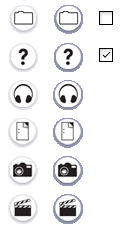
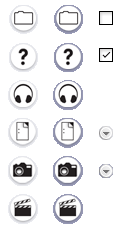
Improved the web browser experience.

Changed region(s): [[0.8182, 0.7061, 0.9421, 0.7982], [0.8182, 0.5526, 0.9421, 0.614]]

diff --git a/wwwroot/media/base.css b/wwwroot/media/base.css
@@ -108,6 +108,7 @@ body {
 #footer a {
 	color:#999;
 }
+#download {	display:none;}
 
 
 
@@ -152,6 +153,17 @@ body {
     color:#eee;
 }
 
+.selections {
+	background:#a19fa8;
+	padding:4px 9px;
+	color:#555;
+	text-indent:31px;
+}
+.selections a {
+	color:#444;
+	padding:0 3px;
+}
+
 
 
 
@@ -177,24 +189,21 @@ body {
 
 
 
-#files a {
+.scroll a {
 	width:100%;
 	height:37px;
 	border-bottom:1px #a0a1ac dotted;
 	display:block;
-	cursor:default;
+	cursor:pointer;
 	outline:none;
 }
-#files a:hover .name {
-	text-decoration:underline;
-}
 
-#files a.selected {
+.scroll a.selected {
 	background-color:#999bb7; 
-	border-bottom:1px #fff dotted;
+	border-color:#fff;
 }
 
-#files span {
+.scroll span {
 	display:inline;
 	float:left;
 	height:37px;
@@ -211,41 +220,50 @@ span.checkbox_actions a {
 	display:block;
 	float:left;
 }
-.checkbox_actions .select-all { 
-	background-position:0 -334px;
-}
+.checkbox_actions .select-all { background-position:0 -334px;}
 
-.checkbox_actions .select-none { 
-	background-position:-24px -334px;
-}
+.checkbox_actions .select-none { background-position:-24px -334px; }
 
 
 span.mark { width:31px; }
-#files span.mark {
+.scroll span.mark {
 	background:transparent url(/media/gfx/icons.png) no-repeat;
 	background-position:-90px 0;
 }
-#files .selected .mark { background-position:-90px -37px; }
+.scroll .selected .mark { background-position:-90px -37px; }
 span.icon { width:45px; }
 span.name { width:374px; overflow:hidden; }
 span.date { width:181px; }
-span.size { width:121px; }
+span.size { width:110px; }
+span.copy { 
+	width:27px;
+	background:transparent url(/media/gfx/icons.png?v=101) no-repeat -95px -115px;
+}
+span.copy a {
+	background:#333;
+	display:block;
+	width:27px;
+}
 
 
 
 
-.Directory, .Unknown, .Audio, .Document, .Image, .Video { background:transparent url(/media/gfx/icons.png) no-repeat; }
+
+.Directory .icon, .Unknown .icon, .Audio .icon, .Document .icon, .Image .icon, .Video .icon { background:transparent url(/media/gfx/icons.png) no-repeat; }
 .selected .Directory { background-position:-45px 0; }
-.Unknown { background-position:0 -38px; }
+.Unknown .icon { background-position:0 -38px; }
 .selected .Unknown { background-position:-45px -38px; }
-.Audio { background-position:0 -76px; }
+.Audio .icon { background-position:0 -76px; }
 .selected .Audio { background-position:-45px -76px; }
-.Document {  background-position:0 -114px;  }
+.Document .icon {  background-position:0 -114px;  }
 .selected .Document { background-position:-45px -114px; }
-.Image {  background-position:0 -152px;  }
+.Image .icon {  background-position:0 -152px;  }
 .selected .Image { background-position:-45px -152px;  }
-.Video {  background-position:0 -190px;  }
+.Video .icon {  background-position:0 -190px;  }
 .selected .Video { background-position:-45px -190px;  }
+
+.selected .copy {background-position:-95px -153px; }
+.Directory .copy { background-image:none; }
 
 
 

diff --git a/wwwroot/media/js/jquery-airship.js b/wwwroot/media/js/jquery-airship.js
@@ -107,20 +107,30 @@
     $.fn.airshipUI = function() {
 	
 		// select all
-		$('a[href=#select-all]').mouseup(function() {
-			$('#files .overflow a').addClass('selected')
-			return false;
-		}).click(function() {
+		$('a[href=#select-all]').click(function() {
+			$('#files .overflow a').addClass('selected');
 			return false;
 		});
-		
-		$('a[href=#select-none]').mouseup(function() {
-			$('#files .overflow a').removeClass('selected')
-			return false;
-		}).click(function() {
+		$('a[href=#select-none]').click(function() {
+			$('#files .overflow a').removeClass('selected');
 			return false;
 		});
-		
+		$('a[href=#select-audio]').click(function() {
+			$('#files .overflow a.Audio').addClass('selected');
+			return false;
+		});
+		$('a[href=#select-documents]').click(function() {
+			$('#files .overflow a.Document').addClass('selected');
+			return false;
+		});
+		$('a[href=#select-images]').click(function() {
+			$('#files .overflow a.Image').addClass('selected');
+			return false;
+		});
+		$('a[href=#select-videos]').click(function() {
+			$('#files .overflow a.Video').addClass('selected');
+			return false;
+		});
         
         //create folder
         $('a[href=#new-folder]').mouseup(function() {
@@ -325,7 +335,7 @@
     function createItemRow(kind, name, date, size, mode)
     {
 		var a = $('<a />')
-			.addClass(mode)
+			.addClass(mode).addClass(kind)
 			.attr('href', kind == 'Directory' ? '#' + currentRelativePath + '/' + name : currentRelativePath + '/' + name);
 		
 		$('<span class="mark" />').appendTo(a);
@@ -333,15 +343,9 @@
 		$('<span class="name" />').appendTo(a).html(name);
 		$('<span class="date" />').appendTo(a).html(date);
 		$('<span class="size" />').appendTo(a).html(size);
+		$('<span class="copy" />').appendTo(a);
 		
-		a.mousedown(function() {
-//			$(this).addClass('selected');
-		})
-		.mouseup(function() {
-			
-//			$(this).removeClass('selected');
-		})
-		.find('.mark').click(function(e) {
+		a.find('.mark').click(function(e) {
 
 			var row = $(this).parent();
 			if (row.hasClass('selected')) {
@@ -349,9 +353,15 @@
 			} else {
 				row.addClass('selected');
 			}
-			
 			return false;
 		});
+		
+		a.find('.copy').click(function(e) {
+			
+			$('#download').attr('src', '/__/download/?filename=' + $(this).parent().attr('href'));
+			return false;
+		});
+		
         
         return a;
     };

diff --git a/wwwroot/index.html b/wwwroot/index.html
@@ -4,10 +4,10 @@
 	<head>
 		<meta http-equiv="Content-type" content="text/html; charset=utf-8">
 		<title>Airship</title>
-		<link rel="stylesheet" href="/media/base.css" type="text/css" media="screen" title="" charset="utf-8">
+		<link rel="stylesheet" href="/media/base.css?v=101" type="text/css" media="screen" title="" charset="utf-8">
 
 		<script src="/media/js/jquery-1.3.2.min.js" type="text/javascript" charset="utf-8"></script>
-		<script src="/media/js/jquery-airship.js" type="text/javascript" charset="utf-8"></script>
+		<script src="/media/js/jquery-airship.js?v=101" type="text/javascript" charset="utf-8"></script>
 		<script src="/media/js/jquery.address-1.0.min.js" type="text/javascript" charset="utf-8"></script>
 
 		<script type="text/javascript" charset="utf-8">
@@ -48,10 +48,7 @@
 			<div id="finder">
                 <div class="toolbar">
                     <div>
-                        <span class="checkbox_actions">
-							<a href="#select-all" class="select-all" title="Select All"></a>
-							<a href="#select-none" class="select-none" title="Select None"></a>
-						</span>
+						<span class="mark"></span>
                         <span class="name">Name</span>
                         <span class="date">Date</span>
                         <span class="size">Size</span>
@@ -59,6 +56,16 @@
                 </div>
                 
                 <div id="files">
+					<div class="selections">
+						Select:
+						<a href="#select-all">All,</a>
+						<a href="#select-none">None</a>
+						<a href="#select-audio">Audio,</a>
+						<a href="#select-documents">Documents,</a>
+						<a href="#select-images">Images,</a>
+						<a href="#select-videos">Videos</a>
+					</div>
+	
                     <div class="scroll">
                         <div class="overflow">
                         </div>
@@ -72,6 +79,10 @@
 			
 			<div id="footer">
 			</div>
+			
+			<iframe src="about:blank" width="0" height="0" id="download">
+			</iframe>
+			
 
 		</div>
 	</body>

diff --git a/HTTPResponse.m b/HTTPResponse.m
@@ -118,3 +118,78 @@
 }
 
 @end
+
+
+////////////////////////////////////////////////////////////////////////////////////////////////////////////////////////
+#pragma mark -
+////////////////////////////////////////////////////////////////////////////////////////////////////////////////////////
+
+
+@implementation HTTPForceDownloadFileResponse
+
+- (id)initWithFilePath:(NSString *)filePathParam
+{
+	if((self = [super init]))
+	{
+		filePath = [filePathParam copy];
+		fileHandle = [[NSFileHandle fileHandleForReadingAtPath:filePath] retain];
+		
+		if(fileHandle == nil)
+		{
+			[self release];
+			return nil;
+		}
+		
+		NSDictionary *fileAttributes = [[NSFileManager defaultManager] fileAttributesAtPath:filePath traverseLink:NO];
+		NSNumber *fileSize = [fileAttributes objectForKey:NSFileSize];
+		fileLength = (UInt64)[fileSize unsignedLongLongValue];
+	}
+	return self;
+}
+
+- (void)dealloc
+{
+	[filePath release];
+	[fileHandle closeFile];
+	[fileHandle release];
+	[super dealloc];
+}
+
+- (UInt64)contentLength
+{
+	return fileLength;
+}
+
+- (UInt64)offset
+{
+	return (UInt64)[fileHandle offsetInFile];
+}
+
+- (void)setOffset:(UInt64)offset
+{
+	[fileHandle seekToFileOffset:offset];
+}
+
+- (NSData *)readDataOfLength:(unsigned int)length
+{
+	return [fileHandle readDataOfLength:length];
+}
+
+- (BOOL)isDone
+{
+	return ([fileHandle offsetInFile] == fileLength);
+}
+
+- (NSString *)filePath
+{
+	return filePath;
+}
+
+- (NSDictionary *)httpHeaders;
+{
+	return [NSDictionary dictionaryWithObjects:[NSArray arrayWithObjects:[NSString stringWithFormat:@"attachment; filename=\"%@\"", [[filePath lastPathComponent] stringByReplacingOccurrencesOfString:@" " withString:@" "]], @"application/force-download", nil] 
+																		 forKeys:[NSArray arrayWithObjects:@"Content-Disposition", @"Content-Type", nil]];
+
+}
+
+@end

diff --git a/Classes/StorageHTTPConnection.m b/Classes/StorageHTTPConnection.m
@@ -80,8 +80,14 @@
 		} else	if ([URLpath isEqualToString:@"/"]) {
 		
 			URLpath = @"index.html";
+		} else if ([URLpath isEqualToString:@"/__/download"]) {
+			NSArray *keyValuePair = [URL.query componentsSeparatedByString:@"="];
+			NSString *value = [[[keyValuePair objectAtIndex:1] stringByReplacingPercentEscapesUsingEncoding:NSUTF8StringEncoding] stringByReplacingOccurrencesOfString:@"+" withString:@" "];
+			NSString *filename = [server.documentRoot.path stringByAppendingPathComponent:value];
+			if ([[NSFileManager defaultManager] fileExistsAtPath:filename]) {
+				return [[[HTTPForceDownloadFileResponse alloc] initWithFilePath:filename] autorelease];
+			}
 		}
-		
 		
 		return [[[HTTPFileResponse alloc] initWithFilePath:[[server.documentRoot.path stringByAppendingPathComponent:@"wwwroot"] stringByAppendingPathComponent:URLpath]] autorelease];
 	
@@ -139,6 +145,8 @@
 			[[NSFileManager defaultManager] moveItemAtPath:[[multipartParser.parts valueForKey:@"Filedata"] valueForKey:@"tmpFilePath"] toPath:[[server.documentRoot.path stringByAppendingPathComponent:relativePath] stringByAppendingPathComponent:filename] error:&error];
 			
 			
+			
+			
 			// Create file.
 			File *file = [[File alloc] initWithName:filename atPath:[server.documentRoot.path stringByAppendingPathComponent:relativePath]]; 
 			// Post notification.
@@ -151,6 +159,8 @@
 			requestIsMultipart = NO;
 			
 			return [[[HTTPDataResponse alloc] initWithData:[@"1" dataUsingEncoding:NSUTF8StringEncoding]] autorelease];
+			
+			
 		}
 	}
 	

diff --git a/HTTPResponse.h b/HTTPResponse.h
@@ -77,6 +77,24 @@
 
 @end
 
+
+////////////////////////////////////////////////////////////////////////////////////////////////////////////////////////
+#pragma mark -
+////////////////////////////////////////////////////////////////////////////////////////////////////////////////////////
+
+@interface HTTPForceDownloadFileResponse : NSObject <HTTPResponse>
+{
+	NSString *filePath;
+	NSFileHandle *fileHandle;
+	
+	UInt64 fileLength;
+}
+
+- (id)initWithFilePath:(NSString *)filePath;
+- (NSString *)filePath;
+
+@end
+
 // Important notice to those implementing custom asynchronous and/or chunked responses:
 // 
 // HTTPConnection supports asynchronous responses.  All you have to do in your custom response class is
